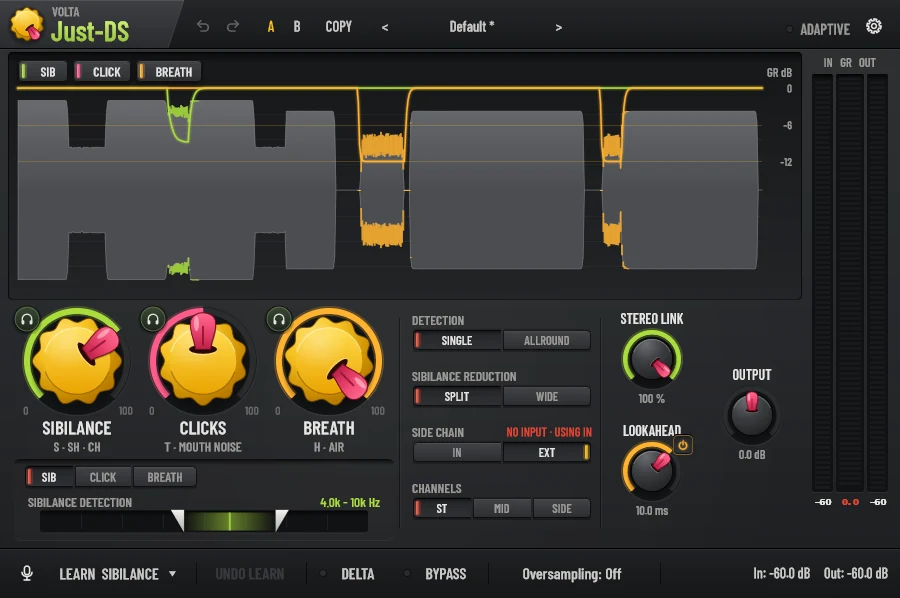
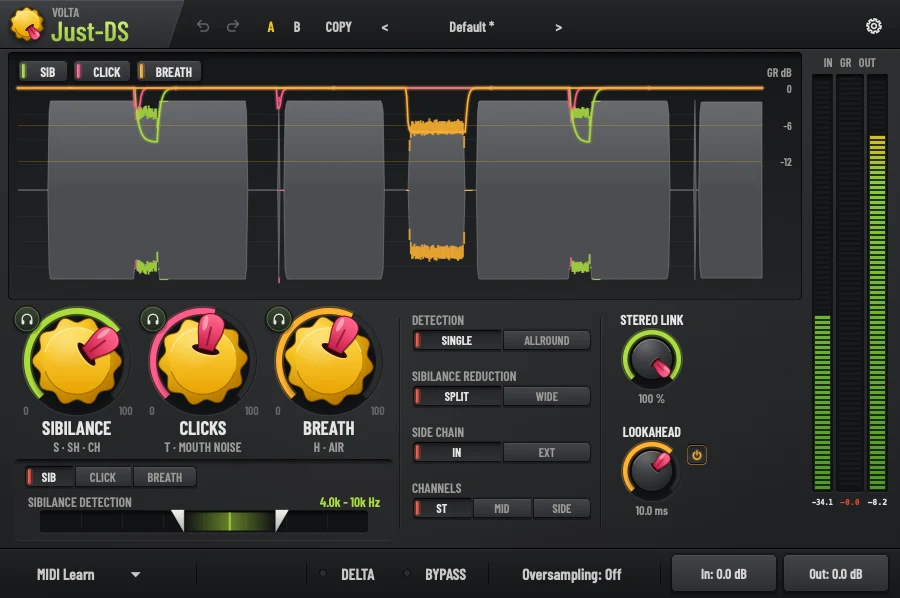
Describe MIDI Learn instead of voice LEARN; drop MANUAL treatment band
Just-DS 1.1.0 replaced voice LEARN with Pro-DS-style MIDI Learn, and the
MANUAL treatment-band lanes have been hidden since 0.5.0, but the page
still advertised both.

- Compare table: remove the "LEARN" extra row; add MIDI Learn as a
  feature both Pro-DS and Just-DS have (no Extra badge)
- Goodies, key features and JSON-LD feature list: MIDI Learn copy
- FAQ: Logic needs the "Just-DS MIDI" AU (MIDI-controlled Effects)
- Treatment band AUTO/MANUAL claims -> per-path HP/LP detection band
- Screenshots re-rendered from the 1.1.0 editor: ui-auto, ui-manual
  (lookahead off) and new ui-midi; ui-learn removed

diff --git a/lib/content.ts b/lib/content.ts
@@ -101,7 +101,7 @@ export const ko: Dict = {
       {
         path: "click", tag: "Pro-DS엔 없음", tagNew: true, title: "Plosives & Clicks", sub: "파열음·입소리 — ㅌ · 쩝 · 혀 차는 소리", rotate: -205,
         body: "짧고 날카로운 ㅌ 계열 파열음과, 입술과 혀에서 나는 클릭을 잡습니다. 마이크 가까이에서 부른 보컬일수록 차이가 큽니다.",
-        spec: "최대 감쇄 **6 dB** · 처리 대역 AUTO / MANUAL",
+        spec: "최대 감쇄 **6 dB** · 검출 대역 HP/LP 지정",
       },
       {
         path: "breath", tag: "Pro-DS엔 없음", tagNew: true, title: "Breaths", sub: "숨소리·후음 — ㅎ · 들숨 · 바람 소리", rotate: -255,
@@ -145,17 +145,17 @@ export const ko: Dict = {
   blocks: [
     {
       id: "everything", eyebrow: "Everything you need", title: "필요한 건 다 있습니다.",
-      body: "Split 처리, lookahead, 스테레오 링크, 오버샘플링. 그리고 Mid/Side, 외부 사이드체인, 처리마다 따로 정하는 검출·감쇄 대역까지. 다 들어 있습니다.",
-      bullets: ["처리마다 Split / Wide", "Lookahead 0–15 ms · 끄면 지연 0 ms", "Stereo Link 0–100 % · Mid / Side", "외부 사이드체인 · 2× / 4× 오버샘플링", "감쇄 대역 AUTO 또는 MANUAL(Hz)"],
-      img: "/assets/img/ui-manual-ko.webp", alt: "Just-DS 수동 대역 화면: 처리별 감쇄 대역을 Hz로 지정",
-      caption: "감쇄 대역을 MANUAL로 바꾸면 처리마다 줄일 주파수 범위를 직접 정합니다.",
+      body: "Split 처리, lookahead, 스테레오 링크, 오버샘플링. 그리고 Mid/Side, 외부 사이드체인, 처리마다 따로 정하는 검출 대역과 Split / Wide까지. 다 들어 있습니다.",
+      bullets: ["처리마다 Split / Wide", "Lookahead 0–15 ms · 끄면 지연 0 ms", "Stereo Link 0–100 % · Mid / Side", "외부 사이드체인 · 2× / 4× 오버샘플링", "처리마다 검출 대역(HP/LP) 지정"],
+      img: "/assets/img/ui-manual-ko.webp", alt: "Just-DS 화면: LOOKAHEAD를 끄고 지연 0 ms로 동작하는 상태",
+      caption: "LOOKAHEAD를 끄면 지연 0 ms. 녹음하면서 모니터링할 때도 그대로 걸어 둘 수 있습니다.",
     },
     {
       id: "goodies", eyebrow: "Just-DS goodies", title: "덤으로 주는 것들.",
-      body: "가장 거친 구간을 재생하면 목소리를 듣고 세 노브 값을 추천하는 LEARN, 처리별 청취, 팩토리 프리셋. 같은 구간을 몇 번 돌려도, 중간부터 재생해도 결과는 같습니다.",
-      bullets: ["LEARN: 목소리 학습 후 노브 추천 · UNDO", "처리별 청취(헤드폰 버튼) · DELTA", "팩토리 프리셋 4종 · A/B · Undo/Redo", "반복·중간 재생에도 같은 결과", "한국어 / English UI"],
-      img: "/assets/img/ui-learn-ko.webp", alt: "Just-DS LEARN 화면: 혀를 내민 큰 금색 노브가 목소리를 듣는 중",
-      caption: "LEARN 화면. 거친 구간을 재생하는 동안 혀를 흔들며 목소리를 듣습니다.",
+      body: "처리별 청취와 DELTA, 팩토리 프리셋, 그리고 손에 익은 MIDI 컨트롤러로 노브를 돌리는 MIDI Learn. 같은 구간을 몇 번 돌려도, 중간부터 재생해도 결과는 같습니다.",
+      bullets: ["MIDI Learn: 조절부를 클릭하고 컨트롤러를 움직이면 연결", "처리별 청취(헤드폰 버튼) · DELTA", "팩토리 프리셋 4종 · A/B · Undo/Redo", "반복·중간 재생에도 같은 결과", "한국어 / English UI"],
+      img: "/assets/img/ui-midi-ko.webp", alt: "Just-DS MIDI Learn 화면: 연결할 수 있는 조절부마다 테두리가 표시되고, 세 노브에 CC 번호가 붙어 있음",
+      caption: "MIDI Learn 화면. 조절부를 클릭하고 컨트롤러를 움직이면 연결됩니다. 연결은 프로젝트와 함께 저장됩니다.",
     },
   ],
   compare: {
@@ -174,9 +174,9 @@ export const ko: Dict = {
       { label: "스테레오 링크 · Mid/Side 처리", them: YES_KO, us: YES_KO },
       { label: "최대 4배 오버샘플링", them: YES_KO, us: YES_KO },
       { label: "A/B 비교 · Undo/Redo", them: YES_KO, us: YES_KO },
+      { label: "MIDI Learn", them: YES_KO, us: YES_KO },
       { label: "클릭·입소리·ㅌ 파열음 제거", them: NO_KO, us: YES_KO, extra: true },
       { label: "숨소리·ㅎ 제거", them: NO_KO, us: YES_KO, extra: true },
-      { label: "목소리 학습 후 자동 세팅 (LEARN)", them: NO_KO, us: YES_KO, extra: true },
       { label: "한국어 UI", them: NO_KO, us: YES_KO, extra: true },
     ],
     footnote:
@@ -191,14 +191,13 @@ export const ko: Dict = {
       "숨소리(ㅎ·들숨) 전용 검출과 감쇄",
       "처리별 색으로 줄어든 부분을 보여주는 실시간 디스플레이",
       "처리마다 따로 정하는 검출 대역(HP/LP)",
-      "감쇄 대역 AUTO / MANUAL(Hz 직접 지정)",
       "처리마다 Split / Wide 선택",
       "Lookahead 0–15 ms, 끄면 지연 0 ms 라이브 모드",
       "Stereo Link 0–100 %",
       "Mid만 / Side만 처리",
       "외부 사이드체인 입력",
       "2× / 4× 오버샘플링",
-      "LEARN: 목소리를 듣고 세 노브 값 추천, UNDO로 되돌리기",
+      "MIDI Learn: 노브·스위치를 MIDI 컨트롤러에 연결, 프로젝트와 기본값으로 저장",
       "처리별 청취와 DELTA 모니터링",
       "팩토리 프리셋 4종(Male/Female × Split/Wide)",
       "A/B 비교와 Undo/Redo",
@@ -249,6 +248,7 @@ export const ko: Dict = {
       { q: "왜 무료예요?", a: "보컬 정리에 돈을 낼 필요는 없다고 생각했습니다. 그래서 더 많이 하는 걸 만들고, 값은 받지 않기로 했습니다." },
       { q: "FabFilter와 관련이 있나요?", a: "아니요. Just-DS는 Volta가 직접 만든 플러그인이며 FabFilter와 제휴, 후원, 보증 관계가 없습니다. 화면은 Pro-DS를 패러디한 디자인이고, 모든 그래픽과 코드는 직접 만들었습니다." },
       { q: "어떤 DAW에서 쓸 수 있나요?", a: "Ableton Live, FL Studio, Cubase, Studio One, Reaper, Logic Pro(AU)처럼 VST3 또는 AU 플러그인을 쓰는 64비트 DAW라면 됩니다. Windows는 VST3, macOS는 VST3와 AU를 제공합니다. Pro Tools용 AAX는 아직 지원하지 않습니다." },
+      { q: "Logic Pro에서 MIDI Learn이 안 돼요.", a: "Logic은 일반 오디오 이펙트에 MIDI를 보내지 않습니다. 그래서 macOS 설치 파일에 **Just-DS MIDI**를 함께 넣었습니다. Audio FX 대신 **MIDI-controlled Effects › Volta › Just-DS MIDI**로 넣으면 MIDI Learn을 쓸 수 있습니다. 소리는 Just-DS와 같습니다." },
       { q: "지연(레이턴시)이 있나요?", a: "LOOKAHEAD를 켜면 정밀 분석을 위해 150 ms의 지연을 DAW에 알리고, DAW가 자동으로 보상합니다. 녹음하면서 모니터링할 때는 LOOKAHEAD를 끄면 지연 0 ms로 동작합니다." },
       { q: "ㅍ·ㅂ(P·B) 같은 저음 팝 노이즈도 없애나요?", a: "직접 없애지는 않습니다. ㅍ·ㅂ 팝은 숨이 마이크에 부딪혀 생기는 저음 덩어리입니다. Just-DS의 파열음 처리는 ㅌ처럼 날카로운 고역 파열음과 입소리를 대상으로 합니다. 저음 팝은 하이패스 필터나 전용 팝 제거 플러그인으로 먼저 정리하세요." },
       { q: "영어 보컬에도 쓸 수 있나요?", a: "네. 한국어 보컬로 다듬었지만 s, sh, ch 같은 치찰음과 t 클릭, h 숨소리는 영어에서도 같은 성격의 소리라 그대로 잡습니다." },
@@ -269,7 +269,7 @@ export const ko: Dict = {
     featureList: [
       "무료 디에서: 치찰음 제거 (Single Vocal / Allround 검출)", "ㅌ 파열음·입소리·클릭 제거", "숨소리·후음(ㅎ) 제거", "Split / Wide 처리",
       "Lookahead 0–15 ms, 끄면 지연 0 ms", "검출 대역 HP/LP 필터", "Stereo Link 0–100 %, Mid/Side 처리", "외부 사이드체인",
-      "2× / 4× 오버샘플링", "LEARN: 목소리 학습 후 자동 추천", "A/B 비교, Undo/Redo, 프리셋", "한국어 / English UI",
+      "2× / 4× 오버샘플링", "MIDI Learn", "A/B 비교, Undo/Redo, 프리셋", "한국어 / English UI",
     ],
   },
 };
@@ -331,7 +331,7 @@ export const en: Dict = {
       {
         path: "click", tag: "Pro-DS can't", tagNew: true, title: "Plosives & Clicks", sub: "Plosive T · lip smacks · mouth clicks", rotate: -205,
         body: "Catches short, sharp t-type plosives and the clicks lips and tongues make. The closer the singer was to the mic, the bigger the difference.",
-        spec: "Up to **6 dB** · AUTO / MANUAL treatment band",
+        spec: "Up to **6 dB** · HP/LP detection band",
       },
       {
         path: "breath", tag: "Pro-DS can't", tagNew: true, title: "Breaths", sub: "Breaths · inhales · breathy H", rotate: -255,
@@ -375,17 +375,17 @@ export const en: Dict = {
   blocks: [
     {
       id: "everything", eyebrow: "Everything you need", title: "Everything you need. It's all there.",
-      body: "Split-band processing, look-ahead, stereo linking, oversampling. Plus mid/side, external side-chain, and detection and treatment bands for each path. It's all there.",
-      bullets: ["Split / Wide for each path", "Lookahead 0–15 ms · zero latency when off", "Stereo link 0–100 % · Mid / Side", "External side-chain · 2x / 4x oversampling", "Treatment band AUTO or MANUAL (Hz)"],
-      img: "/assets/img/ui-manual-en.webp", alt: "Just-DS manual band screen: treatment band set in Hz for each path",
-      caption: "Switch the treatment band to MANUAL to choose exactly which frequencies each path turns down.",
+      body: "Split-band processing, look-ahead, stereo linking, oversampling. Plus mid/side, external side-chain, and a detection band and split / wide choice for each path. It's all there.",
+      bullets: ["Split / Wide for each path", "Lookahead 0–15 ms · zero latency when off", "Stereo link 0–100 % · Mid / Side", "External side-chain · 2x / 4x oversampling", "HP/LP detection band for each path"],
+      img: "/assets/img/ui-manual-en.webp", alt: "Just-DS with LOOKAHEAD switched off, running at zero latency",
+      caption: "Switch LOOKAHEAD off for zero latency, so you can leave it on while tracking.",
     },
     {
       id: "goodies", eyebrow: "Just-DS goodies", title: "Goodies, on the house.",
-      body: "LEARN listens to the harshest part and suggests settings for all three knobs. Listen to each path on its own, start from a factory preset. Loop it thirty times or start mid-song: same result every pass.",
-      bullets: ["LEARN: listens and suggests settings · UNDO", "Listen per path (headphone button) · DELTA", "4 factory presets · A/B · Undo/Redo", "Same result on every pass", "English / Korean UI"],
-      img: "/assets/img/ui-learn-en.webp", alt: "Just-DS LEARN screen: a big gold knob sticking its tongue out while it listens",
-      caption: "The LEARN screen. It wags its tongue while it listens.",
+      body: "Listen to each path on its own, flip on DELTA, start from a factory preset, and put the knobs on the MIDI controller you already own with MIDI Learn. Loop it thirty times or start mid-song: same result every pass.",
+      bullets: ["MIDI Learn: click a control, move a controller", "Listen per path (headphone button) · DELTA", "4 factory presets · A/B · Undo/Redo", "Same result on every pass", "English / Korean UI"],
+      img: "/assets/img/ui-midi-en.webp", alt: "Just-DS MIDI Learn screen: every learnable control is outlined and the three knobs show their CC numbers",
+      caption: "MIDI Learn mode. Click a control, move a controller, done. Assignments are saved with your project.",
     },
   ],
   compare: {
@@ -404,9 +404,9 @@ export const en: Dict = {
       { label: "Stereo linking · Mid/Side", them: "Yes", us: "Yes" },
       { label: "Up to 4x oversampling", them: "Yes", us: "Yes" },
       { label: "A/B compare · Undo/Redo", them: "Yes", us: "Yes" },
+      { label: "MIDI Learn", them: "Yes", us: "Yes" },
       { label: "Mouth click & plosive T removal", them: "No", us: "Yes", extra: true },
       { label: "Breath & H removal", them: "No", us: "Yes", extra: true },
-      { label: "Learns the voice and sets itself up (LEARN)", them: "No", us: "Yes", extra: true },
     ],
     footnote:
       "Pro-DS details are taken from the feature list on FabFilter's official product page, checked in November 2026. FabFilter and Pro-DS are trademarks of FabFilter Software Instruments; Just-DS is not affiliated with FabFilter in any way.",
@@ -420,14 +420,13 @@ export const en: Dict = {
       "Dedicated detection and reduction for breaths and h's",
       "Real-time display that colours what each path removes",
       "Separate HP/LP detection band for each path",
-      "Treatment band AUTO or MANUAL (type in the Hz)",
       "Split or Wide processing for each path",
       "Lookahead 0–15 ms, zero-latency live mode when off",
       "Stereo link 0–100 %",
       "Mid-only or side-only processing",
       "External side-chain input",
       "2x / 4x oversampling",
-      "LEARN: listens to the voice and suggests settings, with UNDO",
+      "MIDI Learn: map knobs and switches to a MIDI controller, saved with the project and as your default",
       "Listen to each path on its own, plus DELTA monitoring",
       "4 factory presets (Male/Female × Split/Wide)",
       "A/B comparison and undo/redo",
@@ -478,6 +477,7 @@ export const en: Dict = {
       { q: "Why is it free?", a: "We don't think cleaning up a vocal should cost money. So we built one that does more, and decided not to charge for it." },
       { q: "Is it affiliated with FabFilter?", a: "No. Just-DS is made by Volta and is not affiliated with, sponsored or endorsed by FabFilter. The interface is a parody of Pro-DS, and every graphic and line of code is our own." },
       { q: "Which DAWs does it work in?", a: "Any 64-bit DAW that hosts VST3 or AU plug-ins, such as Ableton Live, FL Studio, Cubase, Studio One, Reaper and Logic Pro (AU). Windows gets VST3; macOS gets VST3 and AU. AAX for Pro Tools isn't supported yet." },
+      { q: "MIDI Learn doesn't work in Logic Pro.", a: "Logic doesn't send MIDI to regular audio effects, so the macOS installer also includes **Just-DS MIDI**. Insert it from **MIDI-controlled Effects › Volta › Just-DS MIDI** instead of Audio FX and MIDI Learn works. It sounds exactly like Just-DS." },
       { q: "Does it add latency?", a: "With LOOKAHEAD on, it reports 150 ms to the DAW for precise analysis, and the DAW compensates automatically. Turn LOOKAHEAD off while tracking and it runs at zero latency." },
       { q: "Does it remove P and B pops?", a: "Not directly. P and B pops are low-frequency bursts of air hitting the microphone. Just-DS's plosive path targets sharp, high-frequency t-type plosives and mouth clicks. For low-frequency pops, use a high-pass filter or a dedicated pop remover before Just-DS." },
       { q: "Does it work on English vocals?", a: "Yes. It was tuned on Korean vocals, but s, sh and ch sibilance, t clicks and h breaths are the same kinds of sound in English, and it catches them the same way." },
@@ -499,7 +499,7 @@ export const en: Dict = {
       "Free de-esser: sibilance removal with Single Vocal / Allround detection", "Plosive T and mouth click removal", "Breath and h-sound removal",
       "Split / Wide band processing", "Lookahead 0–15 ms, zero latency when off", "HP/LP detection band filters",
       "Stereo link 0–100 %, mid/side processing", "External side-chain", "2x / 4x oversampling",
-      "LEARN: listens to the voice and suggests settings", "A/B compare, undo/redo, presets", "English / Korean UI",
+      "MIDI Learn", "A/B compare, undo/redo, presets", "English / Korean UI",
     ],
   },
 };
